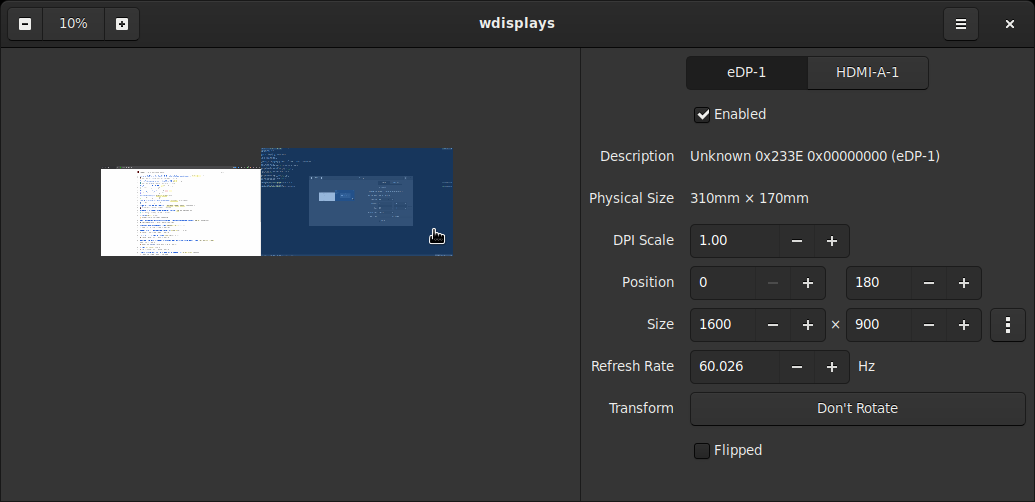
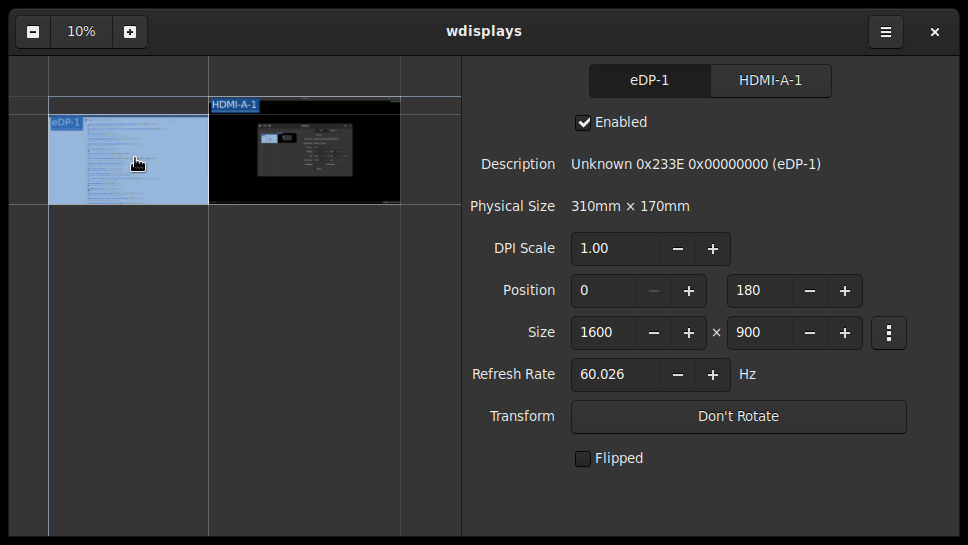
Update README and screenshot

diff --git a/README.md b/README.md
@@ -5,7 +5,9 @@
 wdisplays is a graphical application for configuring displays in Wayland
 compositors. It borrows some code from [kanshi]. It should work in any
 compositor that implements the wlr-output-management-unstable-v1 protocol,
-including [sway].
+including [sway]. The goal of this project is to allow precise adjustment of
+display settings in kiosks, digital signage, and other elaborate multi-monitor
+setups.
 
 ![Screenshot](wdisplays.png)
 
@@ -13,6 +15,7 @@ including [sway].
 
 Build requirements are:
 
+- meson
 - GTK+3
 - epoxy
 - wayland-client
@@ -22,6 +25,28 @@ meson build
 ninja -C build
 sudo ninja -C build install
 ```
+
+Binaries are not available. Only building from source is supported, and only
+if you're using wlroots compiled from master.
+
+# Usage
+
+Displays can be moved around the virtual screen space by clicking and dragging
+them in the preview on the left panel. By default, they will snap to one
+another. Hold Shift while dragging to disable snapping. You can click and drag
+with the middle mouse button to pan. Zoom in and out either with the buttons on
+the top left, or by holding Ctrl and scrolling the mouse wheel. Fine tune your
+adjustments in the right panel, then click apply.
+
+There are some options available by clicking the menu button on the top left:
+
+- Automatically Apply Changes: Makes it so you don't have to hit apply. Disable
+  this for making minor adjustments, but be careful, you may end up with an
+  unusable setup.
+- Show Screen Contents: Shows a live preview of the screens in the left panel.
+  Turn off to reduce energy usage.
+- Overlay Screen Names: Shows big names in the corner of all screens for easy
+  identification. Disable if they get in the way.
 
 # FAQ (Fervently Anticpiated Quandaries)
 
